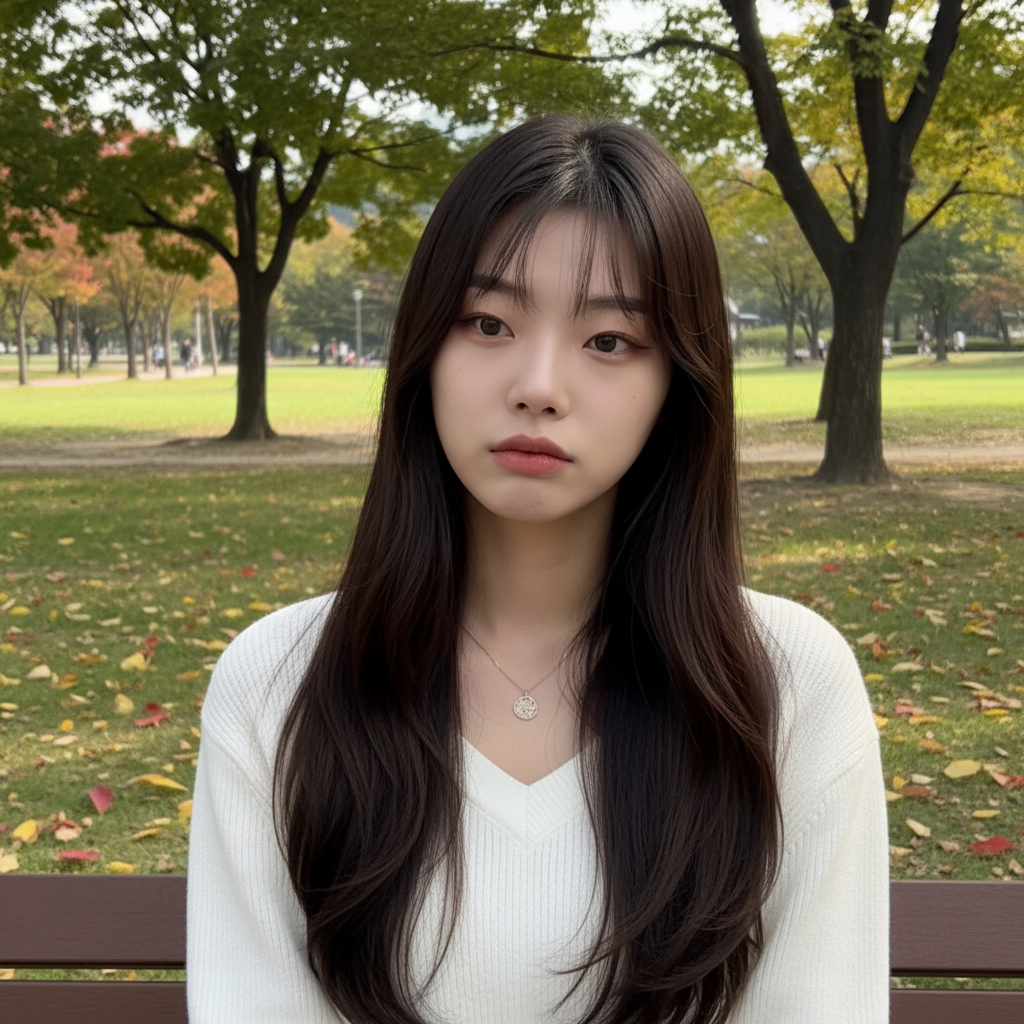
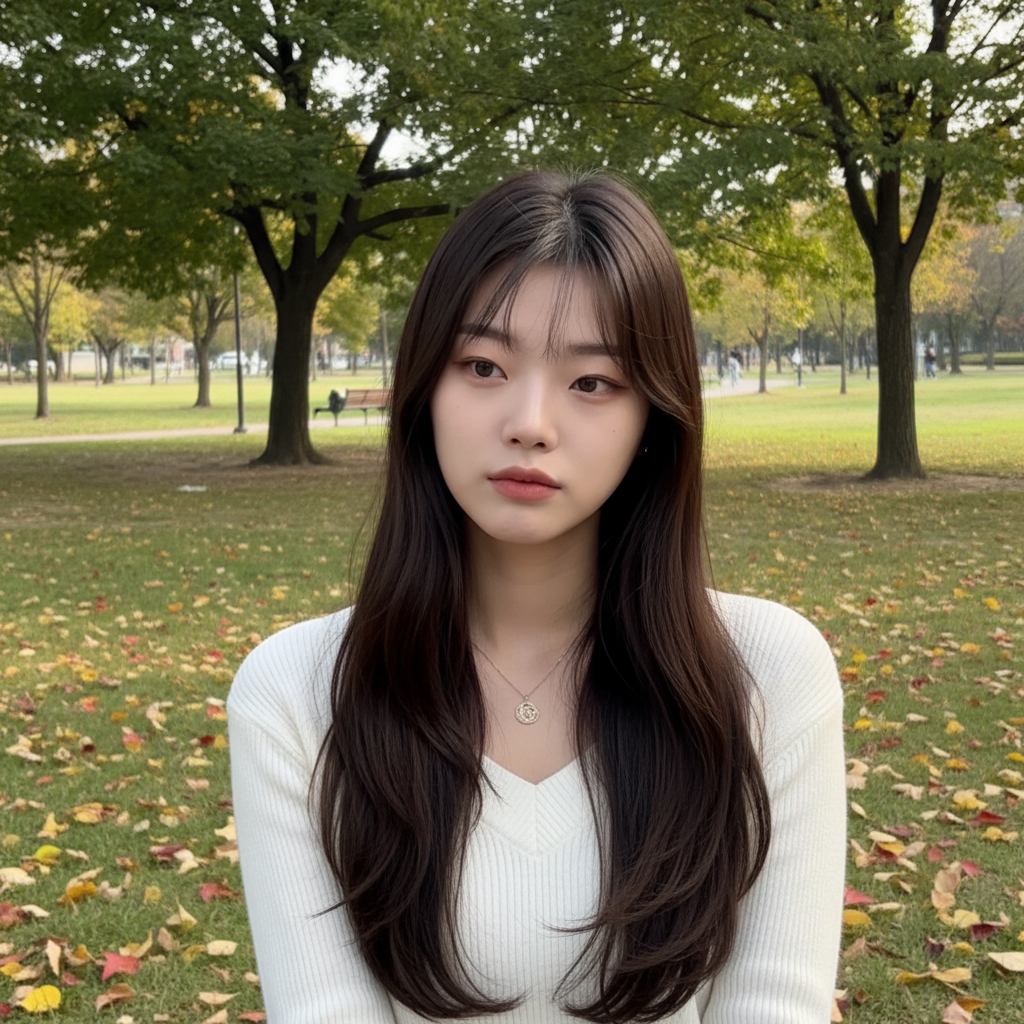
feat: 표정 이미지 백그라운드에서 자동생성되게 구현

diff --git a/app/routers/userRouters.py b/app/routers/userRouters.py
@@ -1,7 +1,8 @@
-from fastapi import APIRouter, Response, Cookie, Depends, UploadFile, File, Form
+from fastapi import APIRouter, Response, Cookie, Depends, UploadFile, File, Form, BackgroundTasks
 from app.schemas.userSchemas import UserConcernRequest
 from typing import Optional, Literal
-from app.dependency import getUserService
+from app.dependency import getUserService, getImageGenService
+from app.services.imageGen.imageGenService import ImageGenService
 from app.services.user.userService import UserService
 router = APIRouter(
     prefix="/user",
@@ -65,11 +66,32 @@ def saveUserConcern(customIdeal: bool,
     return service.chooseCustomIdealService(userId, customIdeal)
 
 @router.patch(
-    "/idealTpye",
+    "/idealType",
     summary="사용자의 이상형 선택 저장",
     description="사용자가 선택한 이상형을 저장함."
 )
-def saveUserConcern(idealType: int,
+def saveUserIdealType(idealType: int,
+                    location: str,
+                    background_tasks: BackgroundTasks,
                     userId: str = Cookie(None),
-                    service: UserService = Depends(getUserService)):
-    return service.chooseIdealTypeService(userId, idealType)
+                    user_service: UserService = Depends(getUserService),
+                    image_service: ImageGenService = Depends(getImageGenService),):
+    # 1⃣ 이상형 저장
+    result = user_service.chooseIdealTypeService(userId, idealType)
+
+    # 2⃣ 이미지 생성은 백그라운드로
+    background_tasks.add_task(
+        generate_expression_bg,
+        "park",
+        userId,
+        image_service
+    )
+
+    return result
+
+def generate_expression_bg(
+    location: str,
+    userId: str,
+    image_service: ImageGenService
+):
+    image_service.generateExpressionService(location, userId)
